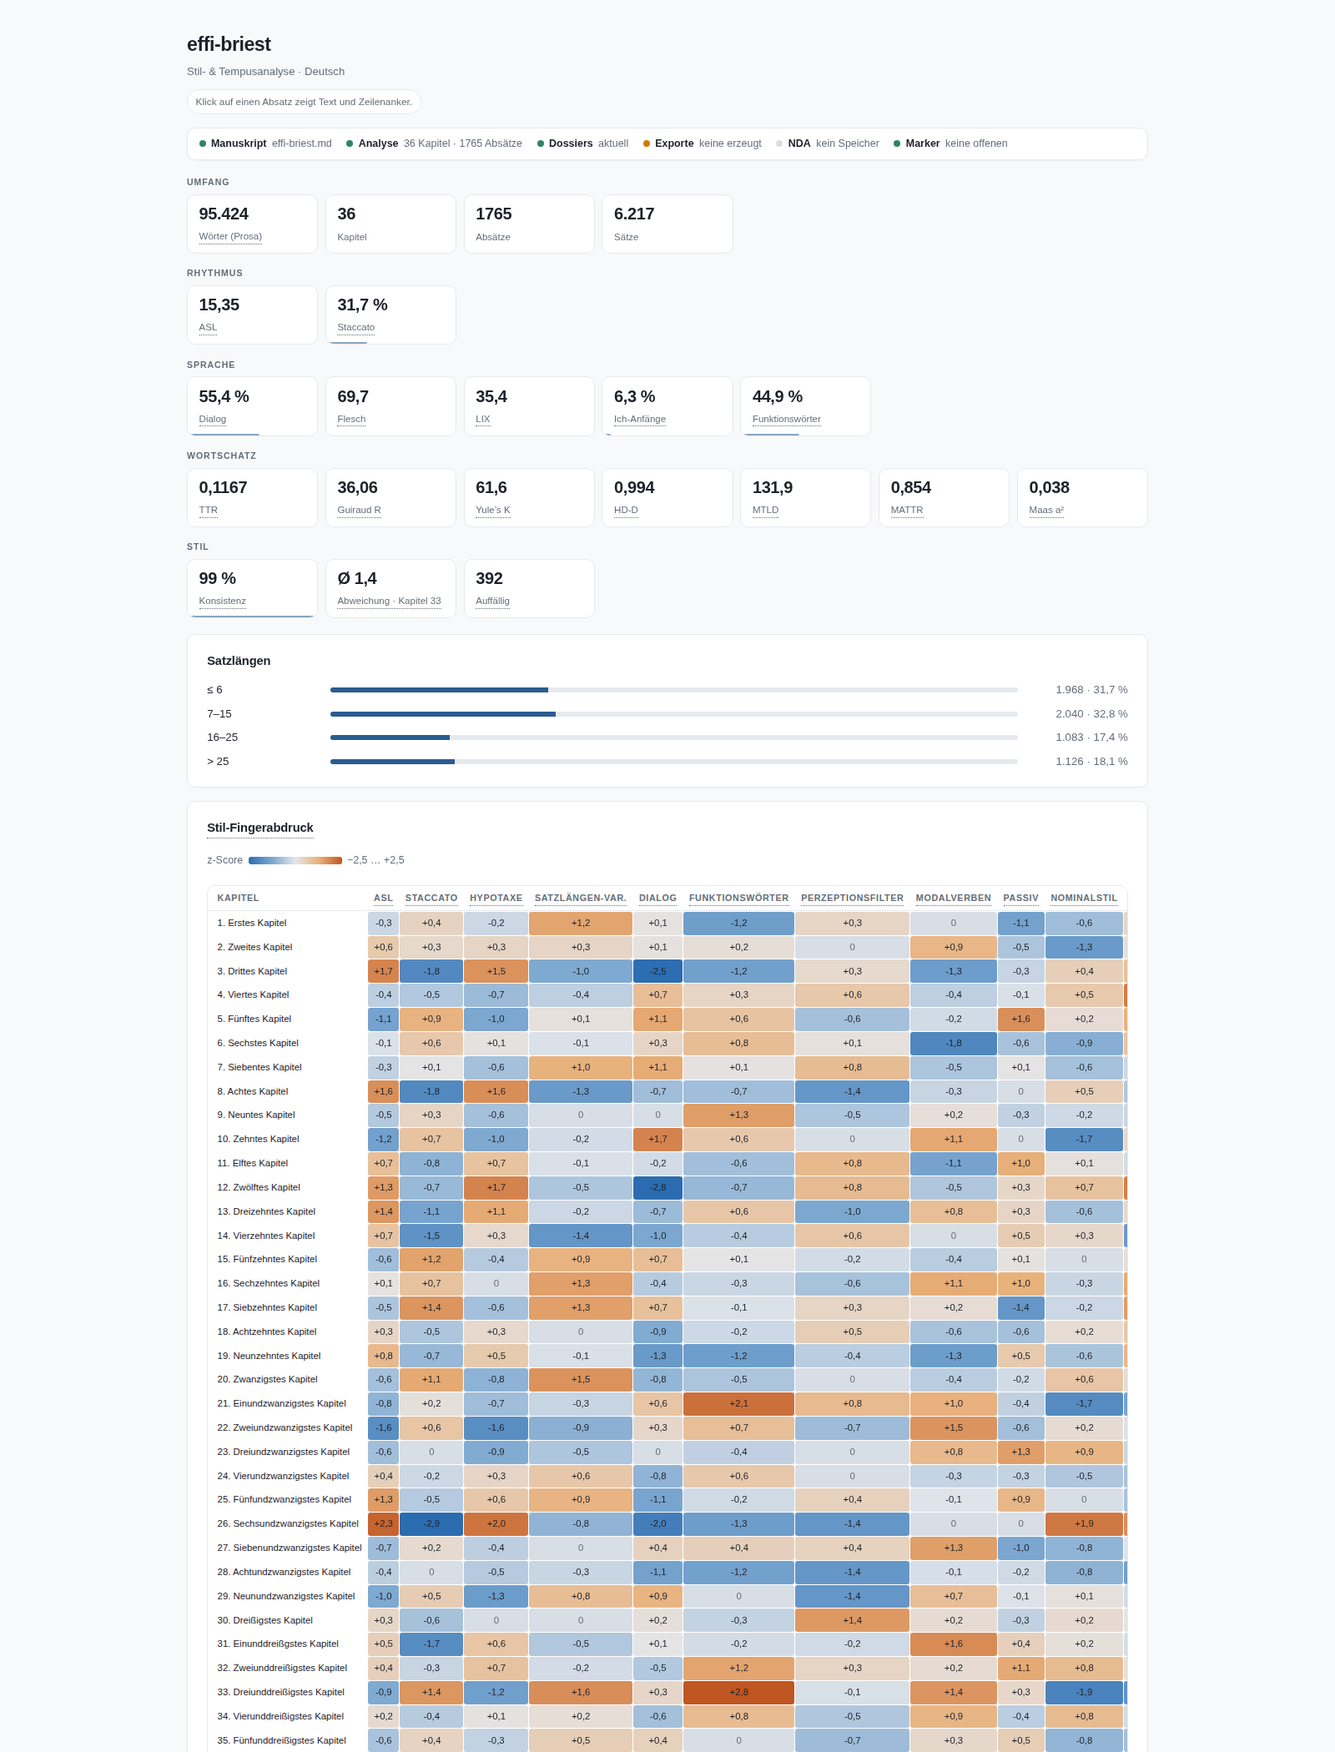
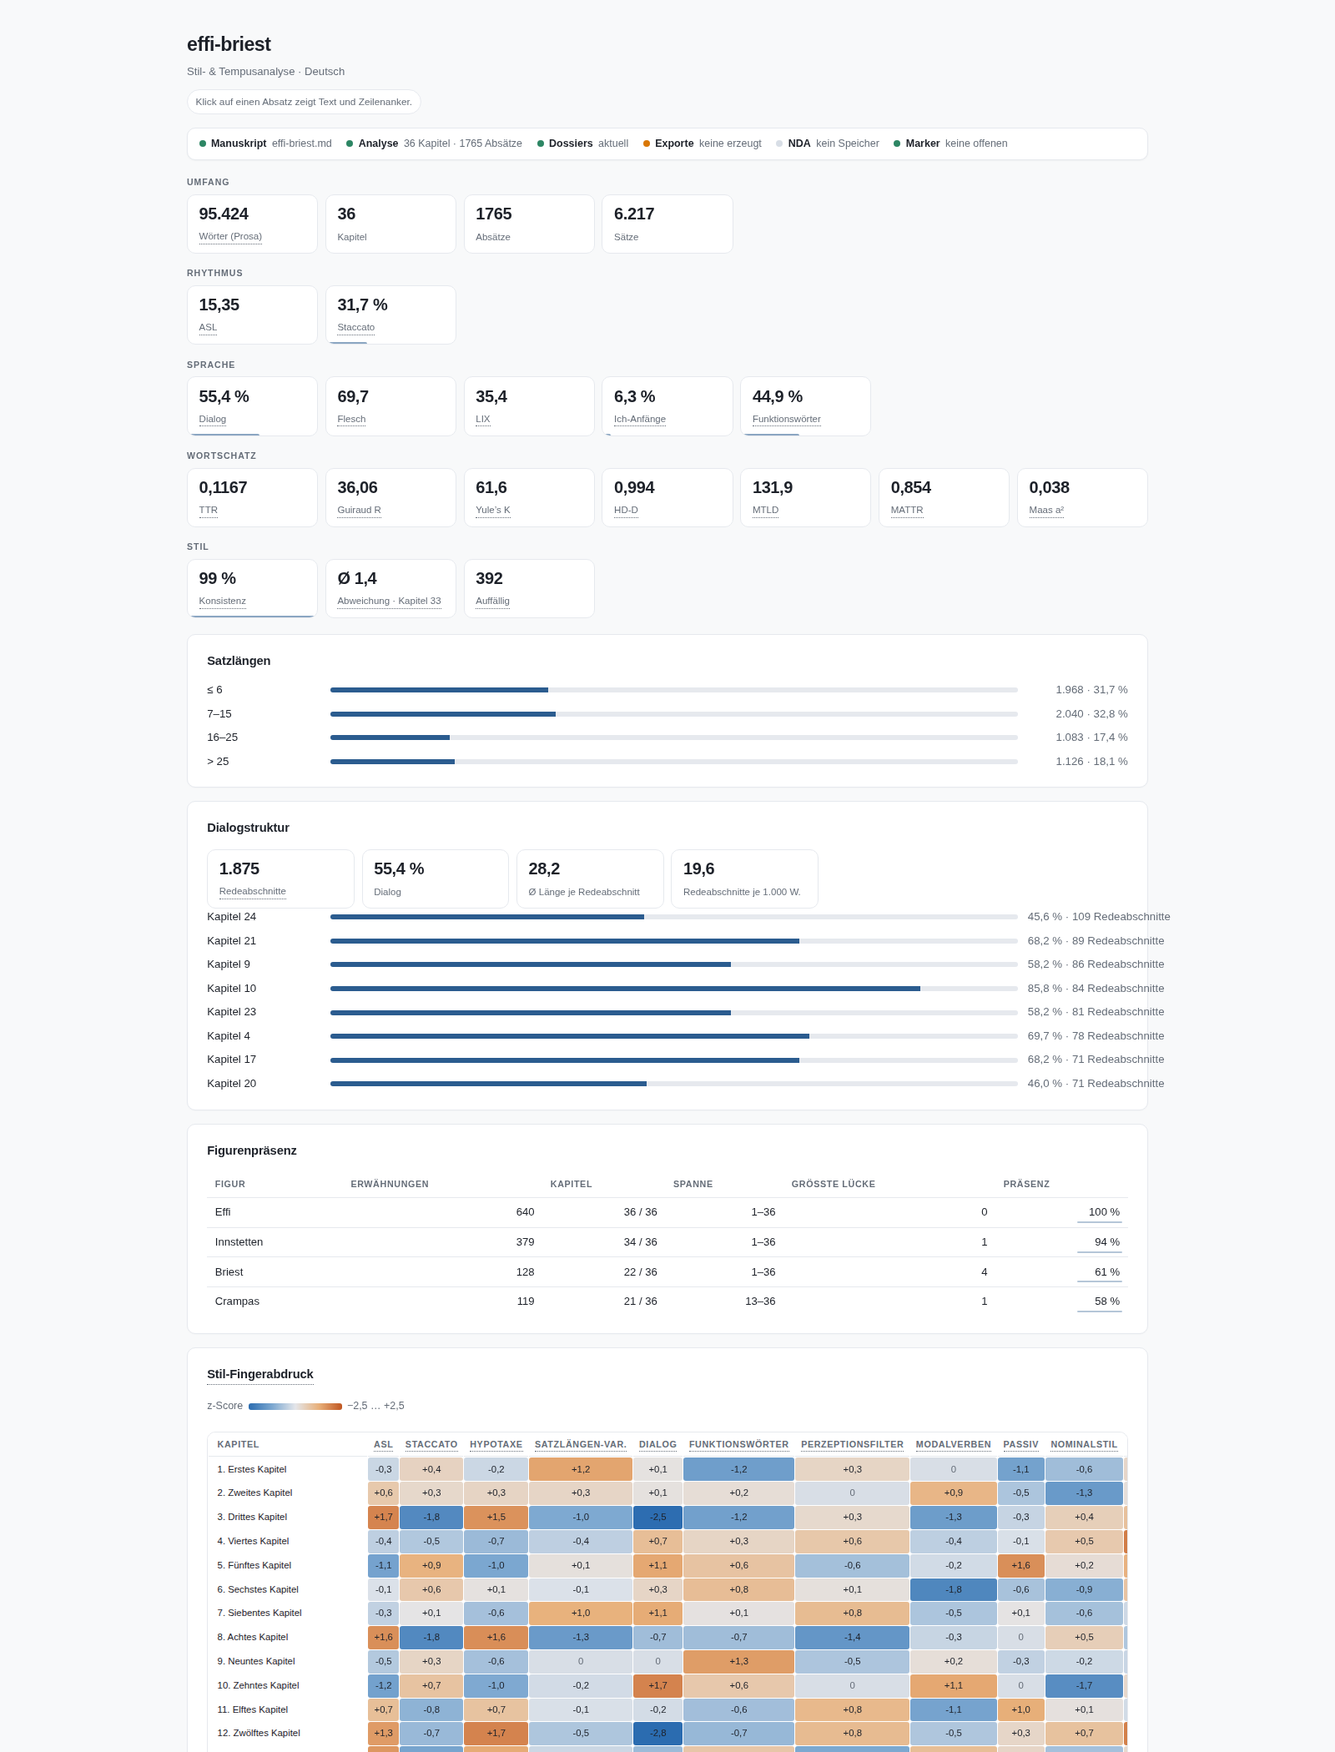
feat(ui): dialogue and character-presence panels in the unified dashboard
- render_dashboard(dialogue=…, characters=…) adds two overview panels
  (after the sentence-length architecture, before the deep-dive style panels)
- dialogue panel: turns, dialogue share, avg turn, turns/1,000 + top chapters
  as clickable bars; character panel: mentions, chapters, span, longest gap,
  presence bar, rows jump to the first chapter
- lixity dashboard computes the dialogue report itself; --names adds figures
- book adapter and screenshot script pass dialogue + figures
- labels in 7 languages, contract test extended, screenshots regenerated
- 186 tests green

Changed region(s): [[0.1562, 0.4643, 0.875, 1.0]]

diff --git a/src/lixity/language_data.py b/src/lixity/language_data.py
@@ -3793,11 +3793,11 @@ LAYER_LABELS = {
 
 # Cross-cutting UI strings (load hints, onboarding).
 UI_LABELS = {
-    "de": {"status_manuscript": "Manuskript", "status_analysis": "Analyse", "status_dossiers": "Dossiers", "status_exports": "Exporte", "status_nda": "NDA", "status_markers": "Marker", "marker_note": "Notiz (optional)", "layer_only": "Nur Abweichungen", "layer_next": "Nächste Abweichung", "layer_outliers": "Abweichungen", "click_hint": "Klick: zum Kapitel", "load_hint": "Markdown (.md), UTF-8 · Kapitel als »## Titel«"},
-    "en": {"status_manuscript": "Manuscript", "status_analysis": "Analysis", "status_dossiers": "Dossiers", "status_exports": "Exports", "status_nda": "NDA", "status_markers": "Markers", "marker_note": "Note (optional)", "layer_only": "Only deviations", "layer_next": "Next deviation", "layer_outliers": "deviations", "click_hint": "click: go to chapter", "load_hint": "Markdown (.md), UTF-8 · chapters as “## Title”"},
-    "fr": {"status_manuscript": "Manuscrit", "status_analysis": "Analyse", "status_dossiers": "Dossiers", "status_exports": "Exports", "status_nda": "NDA", "status_markers": "Marqueurs", "marker_note": "Note (facultatif)", "layer_only": "Écarts seulement", "layer_next": "Écart suivant", "layer_outliers": "écarts", "click_hint": "clic : aller au chapitre", "load_hint": "Markdown (.md), UTF-8 · chapitres en « ## Titre »"},
-    "es": {"status_manuscript": "Manuscrito", "status_analysis": "Análisis", "status_dossiers": "Dosieres", "status_exports": "Exportaciones", "status_nda": "NDA", "status_markers": "Marcadores", "marker_note": "Nota (opcional)", "layer_only": "Solo desviaciones", "layer_next": "Siguiente desviación", "layer_outliers": "desviaciones", "click_hint": "clic: ir al capítulo", "load_hint": "Markdown (.md), UTF-8 · capítulos como «## Título»"},
-    "it": {"status_manuscript": "Manoscritto", "status_analysis": "Analisi", "status_dossiers": "Dossier", "status_exports": "Export", "status_nda": "NDA", "status_markers": "Marcatori", "marker_note": "Nota (facoltativa)", "layer_only": "Solo scarti", "layer_next": "Scarto successivo", "layer_outliers": "scarti", "click_hint": "clic: vai al capitolo", "load_hint": "Markdown (.md), UTF-8 · capitoli come «## Titolo»"},
-    "pt": {"status_manuscript": "Manuscrito", "status_analysis": "Análise", "status_dossiers": "Dossiês", "status_exports": "Exportações", "status_nda": "NDA", "status_markers": "Marcadores", "marker_note": "Nota (opcional)", "layer_only": "Só desvios", "layer_next": "Próximo desvio", "layer_outliers": "desvios", "click_hint": "clique: ir ao capítulo", "load_hint": "Markdown (.md), UTF-8 · capítulos como «## Título»"},
-    "nl": {"status_manuscript": "Manuscript", "status_analysis": "Analyse", "status_dossiers": "Dossiers", "status_exports": "Exports", "status_nda": "NDA", "status_markers": "Markers", "marker_note": "Notitie (optioneel)", "layer_only": "Alleen afwijkingen", "layer_next": "Volgende afwijking", "layer_outliers": "afwijkingen", "click_hint": "klik: naar hoofdstuk", "load_hint": "Markdown (.md), UTF-8 · hoofdstukken als »## Titel«"},
+    "de": {"status_manuscript": "Manuskript", "status_analysis": "Analyse", "status_dossiers": "Dossiers", "status_exports": "Exporte", "status_nda": "NDA", "status_markers": "Marker", "marker_note": "Notiz (optional)", "layer_only": "Nur Abweichungen", "layer_next": "Nächste Abweichung", "layer_outliers": "Abweichungen", "click_hint": "Klick: zum Kapitel", "load_hint": "Markdown (.md), UTF-8 · Kapitel als »## Titel«", "panel_dialogue": "Dialogstruktur", "panel_characters": "Figurenpräsenz", "dlg_turns": "Redeabschnitte", "dlg_avg_turn": "Ø Länge je Redeabschnitt", "dlg_turns_per_1000": "Redeabschnitte je 1.000 W.", "chr_mentions": "Erwähnungen", "chr_chapters": "Kapitel", "chr_span": "Spanne", "chr_gap": "Größte Lücke", "chr_share": "Präsenz", "chr_name": "Figur"},
+    "en": {"status_manuscript": "Manuscript", "status_analysis": "Analysis", "status_dossiers": "Dossiers", "status_exports": "Exports", "status_nda": "NDA", "status_markers": "Markers", "marker_note": "Note (optional)", "layer_only": "Only deviations", "layer_next": "Next deviation", "layer_outliers": "deviations", "click_hint": "click: go to chapter", "load_hint": "Markdown (.md), UTF-8 · chapters as “## Title”", "panel_dialogue": "Dialogue structure", "panel_characters": "Character presence", "dlg_turns": "Turns", "dlg_avg_turn": "Avg. turn length", "dlg_turns_per_1000": "Turns per 1,000 words", "chr_mentions": "Mentions", "chr_chapters": "Chapters", "chr_span": "Span", "chr_gap": "Longest gap", "chr_share": "Presence", "chr_name": "Figure"},
+    "fr": {"status_manuscript": "Manuscrit", "status_analysis": "Analyse", "status_dossiers": "Dossiers", "status_exports": "Exports", "status_nda": "NDA", "status_markers": "Marqueurs", "marker_note": "Note (facultatif)", "layer_only": "Écarts seulement", "layer_next": "Écart suivant", "layer_outliers": "écarts", "click_hint": "clic : aller au chapitre", "load_hint": "Markdown (.md), UTF-8 · chapitres en « ## Titre »", "panel_dialogue": "Structure du dialogue", "panel_characters": "Présence des personnages", "dlg_turns": "Répliques", "dlg_avg_turn": "Longueur moyenne", "dlg_turns_per_1000": "Répliques pour 1 000 mots", "chr_mentions": "Mentions", "chr_chapters": "Chapitres", "chr_span": "Étendue", "chr_gap": "Plus grand écart", "chr_share": "Présence", "chr_name": "Personnage"},
+    "es": {"status_manuscript": "Manuscrito", "status_analysis": "Análisis", "status_dossiers": "Dosieres", "status_exports": "Exportaciones", "status_nda": "NDA", "status_markers": "Marcadores", "marker_note": "Nota (opcional)", "layer_only": "Solo desviaciones", "layer_next": "Siguiente desviación", "layer_outliers": "desviaciones", "click_hint": "clic: ir al capítulo", "load_hint": "Markdown (.md), UTF-8 · capítulos como «## Título»", "panel_dialogue": "Estructura del diálogo", "panel_characters": "Presencia de personajes", "dlg_turns": "Turnos", "dlg_avg_turn": "Longitud media", "dlg_turns_per_1000": "Turnos por 1.000 palabras", "chr_mentions": "Menciones", "chr_chapters": "Capítulos", "chr_span": "Alcance", "chr_gap": "Mayor ausencia", "chr_share": "Presencia", "chr_name": "Personaje"},
+    "it": {"status_manuscript": "Manoscritto", "status_analysis": "Analisi", "status_dossiers": "Dossier", "status_exports": "Export", "status_nda": "NDA", "status_markers": "Marcatori", "marker_note": "Nota (facoltativa)", "layer_only": "Solo scarti", "layer_next": "Scarto successivo", "layer_outliers": "scarti", "click_hint": "clic: vai al capitolo", "load_hint": "Markdown (.md), UTF-8 · capitoli come «## Titolo»", "panel_dialogue": "Struttura del dialogo", "panel_characters": "Presenza dei personaggi", "dlg_turns": "Battute", "dlg_avg_turn": "Lunghezza media", "dlg_turns_per_1000": "Battute per 1.000 parole", "chr_mentions": "Menzioni", "chr_chapters": "Capitoli", "chr_span": "Arco", "chr_gap": "Maggiore assenza", "chr_share": "Presenza", "chr_name": "Personaggio"},
+    "pt": {"status_manuscript": "Manuscrito", "status_analysis": "Análise", "status_dossiers": "Dossiês", "status_exports": "Exportações", "status_nda": "NDA", "status_markers": "Marcadores", "marker_note": "Nota (opcional)", "layer_only": "Só desvios", "layer_next": "Próximo desvio", "layer_outliers": "desvios", "click_hint": "clique: ir ao capítulo", "load_hint": "Markdown (.md), UTF-8 · capítulos como «## Título»", "panel_dialogue": "Estrutura do diálogo", "panel_characters": "Presença das personagens", "dlg_turns": "Turnos", "dlg_avg_turn": "Comprimento médio", "dlg_turns_per_1000": "Turnos por 1.000 palavras", "chr_mentions": "Menções", "chr_chapters": "Capítulos", "chr_span": "Intervalo", "chr_gap": "Maior ausência", "chr_share": "Presença", "chr_name": "Personagem"},
+    "nl": {"status_manuscript": "Manuscript", "status_analysis": "Analyse", "status_dossiers": "Dossiers", "status_exports": "Exports", "status_nda": "NDA", "status_markers": "Markers", "marker_note": "Notitie (optioneel)", "layer_only": "Alleen afwijkingen", "layer_next": "Volgende afwijking", "layer_outliers": "afwijkingen", "click_hint": "klik: naar hoofdstuk", "load_hint": "Markdown (.md), UTF-8 · hoofdstukken als »## Titel«", "panel_dialogue": "Dialoogstructuur", "panel_characters": "Personageaanwezigheid", "dlg_turns": "Beurten", "dlg_avg_turn": "Gemiddelde lengte", "dlg_turns_per_1000": "Beurten per 1.000 woorden", "chr_mentions": "Vermeldingen", "chr_chapters": "Hoofdstukken", "chr_span": "Bereik", "chr_gap": "Grootste gat", "chr_share": "Aanwezigheid", "chr_name": "Personage"},
 }

diff --git a/src/lixity/ui/dashboard.py b/src/lixity/ui/dashboard.py
@@ -67,6 +67,8 @@ def render_dashboard(
     markers: Sequence[Any] | None = None,
     artifacts: Sequence[Mapping[str, Any]] | None = None,
     status: Sequence[Mapping[str, Any]] | None = None,
+    dialogue: Mapping[str, Any] | None = None,
+    characters: Mapping[str, Any] | None = None,
     title: str = "Manuskript",
     labels: Mapping[str, str] | None = None,
     language_name: str = "",
@@ -83,6 +85,8 @@ def render_dashboard(
 
     ``controls=True`` adds the local control panel (buttons/dropdown/NDA),
     which triggers the CLI functions via the UI server (``scripts/ui_server.py``).
+    ``dialogue``/``characters`` add the optional dialogue-structure and
+    character-presence panels (see :mod:`lixity.dialogue`/:mod:`lixity.characters`).
     """
     esc = html.escape
     L = lambda key: esc(label(labels, key))  # noqa: E731
@@ -403,6 +407,69 @@ def render_dashboard(
                 f'<span class="val">{N(count, 0)} · {P(pct)}</span></div>'
             )
         parts.append("</div></section>")
+
+    # --- Dialogue structure (turns, per chapter) ---------------------------
+    if dialogue:
+        parts.append('<section class="panel" id="dialogue">')
+        parts.append(f"<h2>{L('panel_dialogue')}</h2>")
+        parts.append('<div class="kpi-row">')
+        parts.append(
+            kpi(N(dialogue.get("turns", 0), 0), help_term(labels, "dialogue", L("dlg_turns")))
+        )
+        parts.append(kpi(P(dialogue.get("dialogue_pct", 0.0)), L("dialogue")))
+        parts.append(
+            kpi(N(dialogue.get("avg_turn_words", 0.0), 1), L("dlg_avg_turn"), jump="#chapters")
+        )
+        parts.append(
+            kpi(N(dialogue.get("turns_per_1000", 0.0), 1), L("dlg_turns_per_1000"), jump="#chapters")
+        )
+        parts.append("</div>")
+        dialogue_chapters = [c for c in dialogue.get("chapters", []) if c.get("turns")]
+        if dialogue_chapters:
+            top = sorted(dialogue_chapters, key=lambda c: c.get("turns", 0), reverse=True)[:8]
+            parts.append('<div class="dist">')
+            for chapter in top:
+                num = int(chapter.get("chapter_num", 0))
+                share = float(chapter.get("dialogue_pct", 0.0))
+                parts.append(
+                    f'<div class="row" data-jump="#ch-{num}" role="button" tabindex="0" '
+                    f'title="{esc(chapter.get("title", ""), quote=True)}">'
+                    f'<span>{L("chapter")} {num}</span>'
+                    f'<span class="bar"><i style="width:{min(100.0, share):.1f}%"></i></span>'
+                    f'<span class="val">{P(share)} · {int(chapter.get("turns", 0))} {esc(label(labels, "dlg_turns"))}</span>'
+                    f"</div>"
+                )
+            parts.append("</div>")
+        parts.append("</section>")
+
+    # --- Character presence ------------------------------------------------
+    if characters and characters.get("figures"):
+        parts.append('<section class="panel" id="characters">')
+        parts.append(f"<h2>{L('panel_characters')}</h2>")
+        parts.append("<table><thead><tr>")
+        parts.extend(
+            f"<th>{L(key)}</th>"
+            for key in ("chr_name", "chr_mentions", "chr_chapters", "chr_span", "chr_gap", "chr_share")
+        )
+        parts.append("</tr></thead><tbody>")
+        total = int(characters.get("chapters", 0))
+        for figure in characters["figures"]:
+            first = figure.get("first_chapter")
+            jump = f' data-jump="#ch-{int(first)}" role="button" tabindex="0"' if first else ""
+            share = float(figure.get("presence_ratio", 0.0)) * 100.0
+            chapter_span = f"{first}–{figure.get('last_chapter')}" if first else "–"
+            parts.append(
+                f'<tr class="row-link"{jump}>'
+                f'<td class="name">{esc(figure.get("name", ""))}</td>'
+                f'<td class="num">{int(figure.get("mentions", 0))}</td>'
+                f'<td class="num">{len(figure.get("chapters_present", []))} / {total}</td>'
+                f'<td class="num">{esc(chapter_span)}</td>'
+                f'<td class="num">{int(figure.get("longest_gap", 0))}</td>'
+                f'<td class="num bar-cell"><i style="--v:{min(100.0, share):.1f}%"></i>{share:.0f} %</td>'
+                f"</tr>"
+            )
+        parts.append("</tbody></table>")
+        parts.append("</section>")
 
     # --- Style heatmap & passport (self-calibrated house style) -----------
     if has_house_style and fingerprint is not None and metrics is not None and metrics.chapters:

diff --git a/tests/test_ui_contract.py b/tests/test_ui_contract.py
@@ -57,6 +57,8 @@ def _full_dashboard() -> str:
     paragraphs, chapters = ParagraphProfiler(config).profile_blocks(parse_markdown_blocks(text))
     metrics = CorpusAnalyzer(config).analyze_text(text)
     fingerprint = StyleFingerprint.from_metrics(metrics)
+    from lixity.characters import presence_report
+    from lixity.dialogue import dialogue_report
     from lixity.markers import list_markers
 
     return render_dashboard(
@@ -66,6 +68,8 @@ def _full_dashboard() -> str:
         fingerprint=fingerprint,
         markers=list_markers(text),
         artifacts=[{"name": "buch.pdf", "size_kb": 1200.0, "href": "buch.pdf", "pages": 184}],
+        dialogue=dialogue_report(text, config).to_dict(),
+        characters=presence_report(text, ["Ich"], config),
         title="Testroman",
         controls=True,
     )
@@ -107,6 +111,9 @@ class TestJsDomContract(unittest.TestCase):
             'id="layer-next"',
             'id="layer-legend-count"',
             'role="button"',
+            'id="dialogue"',
+            'id="characters"',
+            'data-jump="#ch-1"',
         ):
             self.assertIn(hook, html, hook)
 
@@ -204,6 +211,17 @@ class TestLabelCompleteness(unittest.TestCase):
             "marker_sachcheck",
             "marker_todo",
             "marker_achtung",
+            "panel_dialogue",
+            "panel_characters",
+            "dlg_turns",
+            "dlg_avg_turn",
+            "dlg_turns_per_1000",
+            "chr_name",
+            "chr_mentions",
+            "chr_chapters",
+            "chr_span",
+            "chr_gap",
+            "chr_share",
         )
         for language in LANGUAGES:
             labels = get_language_profile(language).labels

diff --git a/src/lixity/cli.py b/src/lixity/cli.py
@@ -446,6 +446,12 @@ def main(argv=None):
             p.add_argument("--language", default="auto", help="de|en|fr|es|it|pt|nl|generic|auto")
             p.add_argument("--json", action="store_true", help="JSON output")
             continue
+        if name == "dashboard":
+            p.add_argument("file", help="Markdown manuscript")
+            p.add_argument("--language", default="auto", help="de|en|fr|es|it|pt|nl|generic|auto")
+            p.add_argument("--names", help="Comma-separated figure names (character panel)")
+            p.add_argument("-o", "--output", help="Target file (dashboard)")
+            continue
         p.add_argument("file", help="Markdown manuscript")
         p.add_argument("--language", default="auto", help="de|en|fr|es|it|pt|nl|generic|auto")
         p.add_argument(
@@ -520,11 +526,19 @@ def main(argv=None):
     metrics = CorpusAnalyzer(config).analyze_text(text)
     paragraphs, chapters = ParagraphProfiler(config).profile_blocks(parse_markdown_blocks(text))
     fingerprint = StyleFingerprint.from_metrics(metrics)
+    from .characters import presence_report
+    from .dialogue import dialogue_report
+
+    names = [
+        part.strip() for part in (getattr(args, "names", None) or "").split(",") if part.strip()
+    ]
     html = render_dashboard(
         chapters,
         paragraphs,
         metrics=metrics,
         fingerprint=fingerprint,
+        dialogue=dialogue_report(text, config).to_dict(),
+        characters=presence_report(text, names, config) if names else None,
         title=os.path.basename(args.file),
         labels=resolved.labels,
         language_name=resolved.name,

diff --git a/scripts/make_screenshots.py b/scripts/make_screenshots.py
@@ -26,6 +26,8 @@ sys.path.insert(0, str(BASE_DIR / "src"))
 from rich.console import Console  # noqa: E402
 
 from lixity import CorpusAnalyzer, CorpusConfig, ReportFormatter  # noqa: E402
+from lixity.characters import presence_report  # noqa: E402
+from lixity.dialogue import dialogue_report  # noqa: E402
 from lixity.language import resolve_language  # noqa: E402
 from lixity.markdown_parser import parse_markdown_blocks  # noqa: E402
 from lixity.markers import add_marker  # noqa: E402
@@ -188,6 +190,8 @@ def main() -> int:
         metrics=metrics,
         fingerprint=fingerprint,
         status=status,
+        dialogue=dialogue_report(text, config).to_dict(),
+        characters=presence_report(text, ["Effi", "Innstetten", "Crampas", "Briest"], config),
         title=title,
         labels=resolved.labels,
         language_name=resolved.name,

diff --git a/README.md b/README.md
@@ -49,9 +49,9 @@ foundation of its analysis: **T**TR, **Y**ule's characteristic $K$, and
   content-hash IDs and free-text notes, writable from the dashboard or API.
 - **Idempotent workspace build:** `lixity build` publishes a reproducible
   artifact set; unchanged input causes zero writes.
-- **Coherent dashboard:** optional component status strip, clickable KPIs
-  that drill down and preselect the matching filter, style-reference band
-  chart, deviation layer.
+- **Coherent dashboard:** optional component status strip, dialogue and
+  character-presence panels, clickable KPIs that drill down and preselect the
+  matching filter, style-reference band chart, deviation layer.
 - **Agent-ready:** strict JSON schemas with meta blocks, clean exit codes, a
   stable `lixity.api` facade, and an agent guide in
   [`docs/AGENTS.md`](docs/AGENTS.md).

diff --git a/docs/USAGE.md b/docs/USAGE.md
@@ -197,6 +197,11 @@ The dashboard contains:
   is clickable** and jumps to the panel that shows it, preselecting the
   matching filter where one exists (flags / deviations),
 - the sentence-length architecture as bars,
+- a **dialogue structure** panel (when dialogue data is supplied or computed by
+  the CLI): turns, dialogue share, average turn length, turns per 1,000 words
+  and the chapters with the most speech,
+- a **character presence** panel (when names are supplied): mentions, chapters
+  present, chapter span, longest gap and a presence bar per figure,
 - the **style heatmap**: chapter × feature matrix of significance-adjusted
   z* values with a diverging colour scale (blue = below, orange = above the
   house mean), plus the expected-false-positive/FDR footnote; cells jump to
